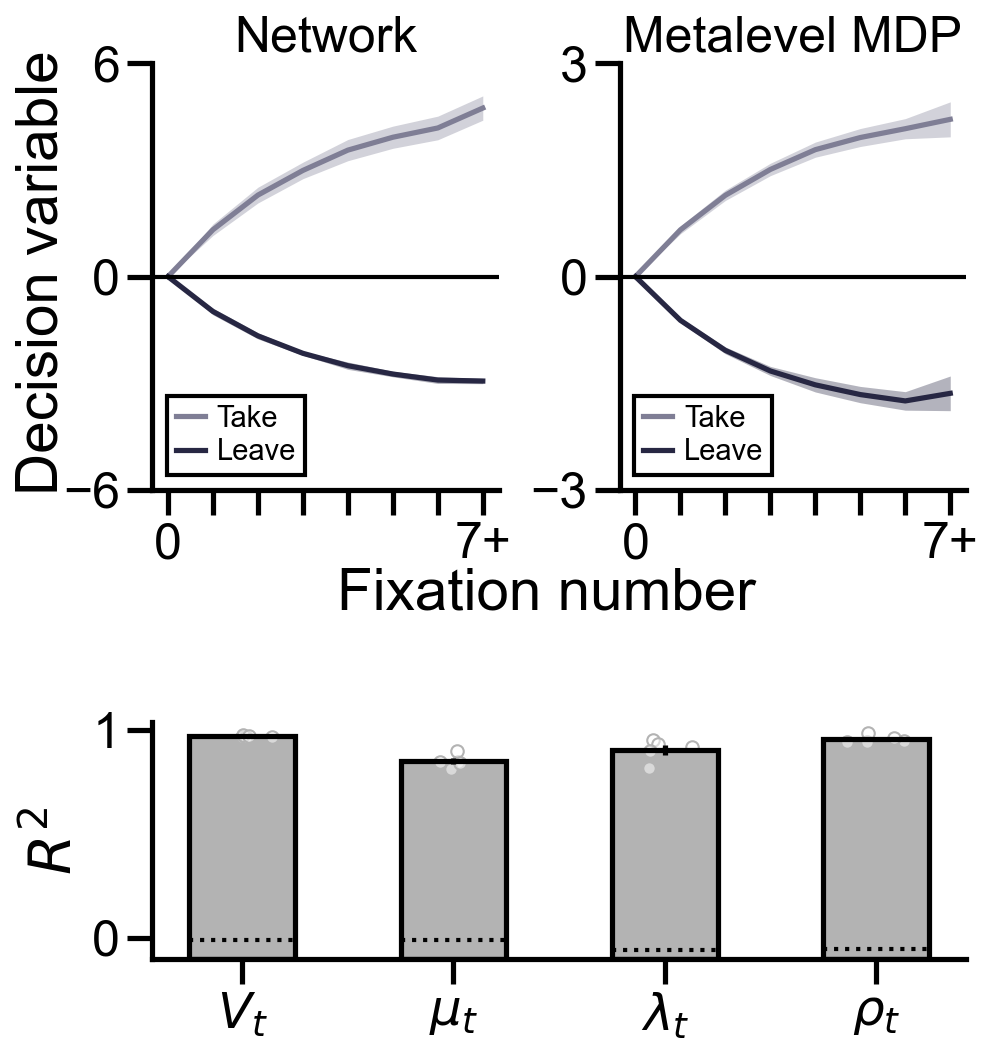
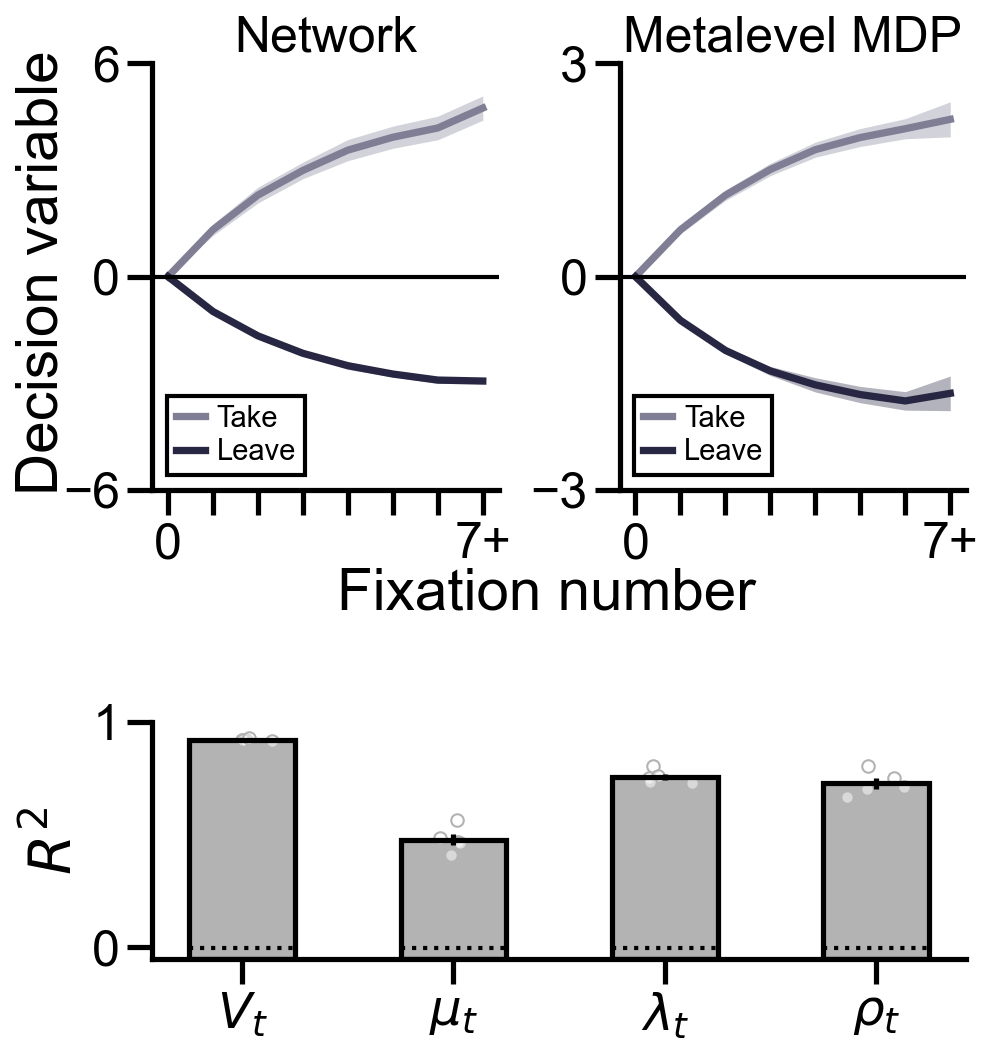
switched to linear decoder for belief state

diff --git a/metarnn/lib/run_belief_decoding.py b/metarnn/lib/run_belief_decoding.py
@@ -1,9 +1,11 @@
 #!/usr/bin/env python3
 """Decode belief sufficient statistics from the network's hidden states.
 
-Runs Ridge (linear) and MLP (nonlinear) decoders for mu, lambda, rho,
-and V_t at each location, for each seed in parallel. Saves per-seed,
-per-location R^2 to a CSV.
+Trains an ordinary least squares (OLS) linear decoder for mu, lambda, rho,
+and V_t at each location, for each seed in parallel. Cross-validation uses
+GroupKFold with the trial as the group, so timesteps from a given trial
+never appear in both train and test. Saves per-seed, per-location R^2 to a
+CSV; chance is estimated from 1000 shuffled-target permutations.
 
 Skips computation if the output CSV already exists (use --force to override).
 
@@ -23,11 +25,7 @@ from concurrent.futures import ProcessPoolExecutor, as_completed
 
 import numpy as np
 import pandas as pd
-from sklearn.linear_model import Ridge
-from sklearn.model_selection import KFold
-from sklearn.neural_network import MLPRegressor
-from sklearn.pipeline import Pipeline
-from sklearn.preprocessing import StandardScaler
+from sklearn.model_selection import GroupKFold
 
 _TAKE_LOGIT_IDX = 6
 _LEAVE_LOGIT_IDX = 7
@@ -39,6 +37,10 @@ def extract_aligned(data: dict):
     Alignment: hidden[t] has info through action[t-1],
     belief[t] has info through action[t].
     So hidden[t] corresponds to belief[t-1]. Start at t=1.
+
+    Also returns a parallel `groups` array with the trial index for each
+    row, used as the GroupKFold group label so timesteps from a given
+    trial never split across train/test.
     """
     all_actions = data["actions"]
     all_hiddens = data["hiddens"]
@@ -46,7 +48,7 @@ def extract_aligned(data: dict):
     all_lambdas = data["lambdas"]
     all_rhos = data["rhos"]
 
-    hidden_rows, mu_rows, lam_rows, rho_rows = [], [], [], []
+    hidden_rows, mu_rows, lam_rows, rho_rows, group_rows = [], [], [], [], []
 
     for trial_idx in range(len(all_actions)):
         actions = all_actions[trial_idx]
@@ -70,13 +72,55 @@ def extract_aligned(data: dict):
             mu_rows.append(mus[t - 1])
             lam_rows.append(lambdas[t - 1])
             rho_rows.append(rhos[t - 1])
+            group_rows.append(trial_idx)
 
     return {
         "hiddens": np.array(hidden_rows),
         "mus": np.array(mu_rows),
         "lambdas": np.array(lam_rows),
         "rhos": np.array(rho_rows),
+        "groups": np.array(group_rows, dtype=int),
     }
+
+
+def _r2(y_true, y_pred):
+    ss_res = np.sum((y_true - y_pred) ** 2)
+    ss_tot = np.sum((y_true - y_true.mean()) ** 2)
+    return 1 - ss_res / ss_tot if ss_tot > 0 else 0.0
+
+
+def cv_ols_with_shuffles(X, y, groups, n_folds, n_shuffles, rng):
+    """OLS cross-validation with shuffled-target chance baselines.
+
+    Computes per-fold pseudoinverse pinv(X_train) once and reuses it for
+    the real fit and all n_shuffles shuffled fits. Each shuffle becomes
+    two cheap matrix-vector products, so 1000 shuffles is fast.
+
+    Returns (real_r2, [shuf_r2_iter_0, ..., shuf_r2_iter_{n_shuffles-1}]).
+    Each value is the mean R^2 across folds.
+    """
+    gkf = GroupKFold(n_splits=n_folds)
+    real_r2s = []
+    shuf_r2s = [[] for _ in range(n_shuffles)]
+
+    for train_idx, test_idx in gkf.split(X, y, groups):
+        X_tr, X_te = X[train_idx], X[test_idx]
+        # Pseudoinverse of X_train: 100 x n_train. One SVD per fold.
+        P = np.linalg.pinv(X_tr)
+
+        # Real
+        beta = P @ y[train_idx]
+        pred = X_te @ beta
+        real_r2s.append(_r2(y[test_idx], pred))
+
+        # Shuffled (full-array permute, then re-index)
+        for s in range(n_shuffles):
+            y_shuf = rng.permutation(y)
+            beta = P @ y_shuf[train_idx]
+            pred = X_te @ beta
+            shuf_r2s[s].append(_r2(y_shuf[test_idx], pred))
+
+    return float(np.mean(real_r2s)), [float(np.mean(s)) for s in shuf_r2s]
 
 
 def decode_one_seed(args_tuple):
@@ -91,6 +135,7 @@ def decode_one_seed(args_tuple):
     print(f"  [Seed {seed}] Extracting aligned data ...")
     ext = extract_aligned(data)
     H = ext["hiddens"]
+    groups = ext["groups"]
     print(f"  [Seed {seed}] {len(H)} observations")
 
     targets = {
@@ -100,72 +145,33 @@ def decode_one_seed(args_tuple):
     }
     V_t = np.sum(ext["mus"] * ext["rhos"], axis=1)
 
-    kf = KFold(n_splits=n_folds, shuffle=True, random_state=42)
     rng = np.random.default_rng(seed)
 
     rows = []
 
-    def _eval(model_fn, X, y):
-        test_r2s = []
-        for train_idx, test_idx in kf.split(X):
-            model = model_fn()
-            model.fit(X[train_idx], y[train_idx])
-            pred = model.predict(X[test_idx])
-            ss_res = np.sum((y[test_idx] - pred) ** 2)
-            ss_tot = np.sum((y[test_idx] - y[test_idx].mean()) ** 2)
-            test_r2s.append(1 - ss_res / ss_tot if ss_tot > 0 else 0.0)
-        return float(np.mean(test_r2s))
-
-    make_ridge = lambda: Ridge(0.1)
-    make_mlp = lambda: Pipeline([
-        ("scaler", StandardScaler()),
-        ("mlp", MLPRegressor(
-            hidden_layer_sizes=(64,), max_iter=500,
-            random_state=42, early_stopping=True,
-            validation_fraction=0.1)),
-    ])
+    def _record(statistic, location, real_r2, shuf_r2_list):
+        rows.append({"seed": seed, "statistic": statistic, "location": location,
+                     "decoder": "OLS", "r2": real_r2, "shuffle": False,
+                     "shuffle_iter": -1})
+        for shuf_i, r2 in enumerate(shuf_r2_list):
+            rows.append({"seed": seed, "statistic": statistic,
+                         "location": location, "decoder": "OLS", "r2": r2,
+                         "shuffle": True, "shuffle_iter": shuf_i})
 
     # V_t aggregate
-    for label, mf in [("Ridge", make_ridge), ("MLP", make_mlp)]:
-        r2 = _eval(mf, H, V_t)
-        rows.append({"seed": seed, "statistic": "V_t", "location": "agg",
-                      "decoder": label, "r2": r2, "shuffle": False,
-                      "shuffle_iter": -1})
-    for shuf_i in range(n_shuffles):
-        y_shuf = rng.permutation(V_t)
-        for shuf_label, shuf_mf in [("Ridge", make_ridge), ("MLP", make_mlp)]:
-            r2_shuf = _eval(shuf_mf, H, y_shuf)
-            rows.append({"seed": seed, "statistic": "V_t", "location": "agg",
-                          "decoder": shuf_label, "r2": r2_shuf,
-                          "shuffle": True, "shuffle_iter": shuf_i})
+    real_r2, shuf_r2s = cv_ols_with_shuffles(H, V_t, groups, n_folds, n_shuffles, rng)
+    _record("V_t", "agg", real_r2, shuf_r2s)
 
     # Per-location sufficient statistics
     for stat_name, Y in targets.items():
         for loc in range(6):
             y = Y[:, loc]
             if np.std(y) < 1e-8:
-                for label in ["Ridge", "MLP"]:
-                    rows.append({"seed": seed, "statistic": stat_name,
-                                  "location": loc, "decoder": label,
-                                  "r2": 0.0, "shuffle": False,
-                                  "shuffle_iter": -1})
+                _record(stat_name, loc, 0.0, [0.0] * n_shuffles)
                 continue
-
-            for label, mf in [("Ridge", make_ridge), ("MLP", make_mlp)]:
-                r2 = _eval(mf, H, y)
-                rows.append({"seed": seed, "statistic": stat_name,
-                              "location": loc, "decoder": label,
-                              "r2": r2, "shuffle": False,
-                              "shuffle_iter": -1})
-
-            for shuf_i in range(n_shuffles):
-                y_shuf = rng.permutation(y)
-                for shuf_label, shuf_mf in [("Ridge", make_ridge), ("MLP", make_mlp)]:
-                    r2_shuf = _eval(shuf_mf, H, y_shuf)
-                    rows.append({"seed": seed, "statistic": stat_name,
-                                  "location": loc, "decoder": shuf_label,
-                                  "r2": r2_shuf, "shuffle": True,
-                                  "shuffle_iter": shuf_i})
+            real_r2, shuf_r2s = cv_ols_with_shuffles(H, y, groups, n_folds,
+                                                      n_shuffles, rng)
+            _record(stat_name, loc, real_r2, shuf_r2s)
 
     print(f"  [Seed {seed}] Done.")
     return rows
@@ -179,7 +185,7 @@ def main():
     parser.add_argument("--prefix", default="data_0")
     parser.add_argument("--seeds", nargs="+", type=int, default=[5, 6, 7, 8, 9])
     parser.add_argument("--n-folds", type=int, default=5)
-    parser.add_argument("--n-shuffles", type=int, default=10)
+    parser.add_argument("--n-shuffles", type=int, default=1000)
     parser.add_argument("--workers", type=int, default=5)
     parser.add_argument("--force", action="store_true",
                         help="Re-run even if output CSV already exists")

diff --git a/metarnn/lib/plot_evidence_figure.py b/metarnn/lib/plot_evidence_figure.py
@@ -165,7 +165,7 @@ def _plot_accumulation(ax, all_dfs, col, ylabel, yticks=None):
         gs = np.array(grand_sem)
         valid = ~np.isnan(gm)
 
-        ax.plot(x_pos[valid], gm[valid], color=color, linewidth=2.5,
+        ax.plot(x_pos[valid], gm[valid], color=color, linewidth=3.5,
                 label=decision)
         ax.fill_between(x_pos[valid], gm[valid] - gs[valid],
                         gm[valid] + gs[valid], color=color, alpha=_SEM_ALPHA,
@@ -187,11 +187,11 @@ def _plot_accumulation(ax, all_dfs, col, ylabel, yticks=None):
 
 
 def plot_decoding_bars(ax, csv_path):
-    """Plot MLP decoding R^2 from the saved CSV."""
+    """Plot OLS decoding R^2 from the saved CSV."""
     df = pd.read_csv(csv_path)
 
-    real = df[(df["decoder"] == "MLP") & (~df["shuffle"])]
-    shuf = df[(df["decoder"] == "MLP") & (df["shuffle"])]
+    real = df[(df["decoder"] == "OLS") & (~df["shuffle"])]
+    shuf = df[(df["decoder"] == "OLS") & (df["shuffle"])]
 
     stats_order = ["V_t", "mu", "lambda", "rho"]
     labels = ["$V_t$", "$\\mu_t$", "$\\lambda_t$", "$\\rho_t$"]
@@ -207,7 +207,7 @@ def plot_decoding_bars(ax, csv_path):
         se = (np.std(seed_vals, ddof=1) / np.sqrt(len(seed_vals))
               if len(seed_vals) > 1 else 0)
 
-        bottom = -0.1
+        bottom = -0.05
         bw = 0.5
         ax.bar(x_pos[i], m - bottom, bw, bottom=bottom, color=".7",
                edgecolor="none", linewidth=0, zorder=2)
@@ -235,7 +235,8 @@ def plot_decoding_bars(ax, csv_path):
     ax.set_xticks(x_pos)
     ax.set_xticklabels(labels)
     ax.set_ylabel("$R^2$")
-    ax.set_ylim(bottom=-0.1)
+    ax.set_ylim(-0.05, 1.0)
+    ax.set_yticks([0, 1])
     sns.despine(ax=ax)
 
 

diff --git a/README.md b/README.md
@@ -88,7 +88,7 @@ ncm2026_optimalepisodic/
 │   │   ├── plot_prop_drop_supplement.py  #  Fixation drop fraction supplement (Figure S3)
 │   │   ├── export_nn_nn_comparison_data.py  # Export data for R statistical analysis
 │   │   ├── plot_evidence_figure.py    #     Evidence accumulation + decoding figure (Figure 3BC)
-│   │   └── run_belief_decoding.py     #     Decode belief states from hidden states (MLP + Ridge)
+│   │   └── run_belief_decoding.py     #     Decode belief states from hidden states (OLS, GroupKFold by trial)
 │   └── simulations/                   #   NN simulation data
 │       ├── simulation_04_04_input0/   #     Raw JSON simulations (baseline NN, no episodic input)
 │       │   └── with_hidden/           #       JSON files with hidden states + logits (gitignored)
@@ -253,7 +253,7 @@ create_nn_figures.sh (input0 baseline)
   --> copy figures to output/figures/
 ```
 
-`create_nn_figures.sh` internally runs: JSON compilation, fixation preparation, choice fixation proportions, choice prediction (with recall-calibrated drop), prop-drop supplement, NN overview, and human-NN comparison figures. The pipeline also runs belief decoding (decoding metalevel MDP belief states from the network's hidden states via MLP) and generates the evidence accumulation figure (Figure 3, panels B-C) if simulation files with hidden states are available in `simulation_*/with_hidden/`. Pre-computed outputs are cached so the figure can be regenerated without the large JSON files.
+`create_nn_figures.sh` internally runs: JSON compilation, fixation preparation, choice fixation proportions, choice prediction (with recall-calibrated drop), prop-drop supplement, NN overview, and human-NN comparison figures. The pipeline also runs belief decoding (decoding metalevel MDP belief states from the network's hidden states via ordinary least squares linear regression, with 5-fold GroupKFold by trial) and generates the evidence accumulation figure (Figure 3, panels B-C) if simulation files with hidden states are available in `simulation_*/with_hidden/`. Pre-computed outputs are cached so the figure can be regenerated without the large JSON files.
 
 **Outputs:** `metarnn/simulations/human_like_*/output/`, `output/figures/Figure3-5.pdf`, `output/figures/Figure3BC.pdf`, `output/figures/supplementary/FigureS3-S5.pdf`
 